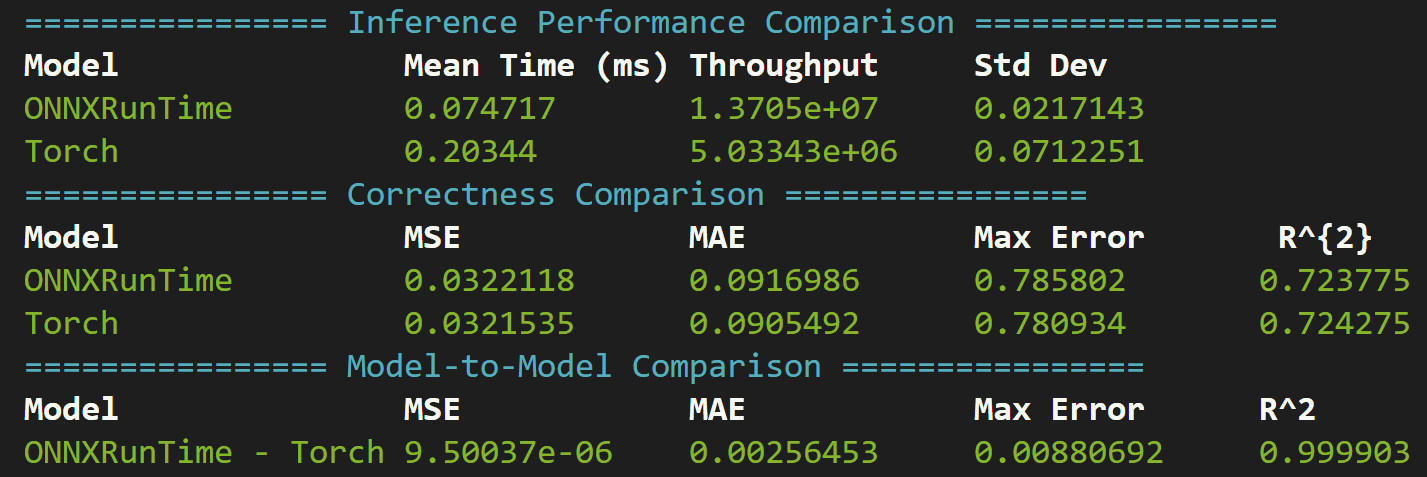
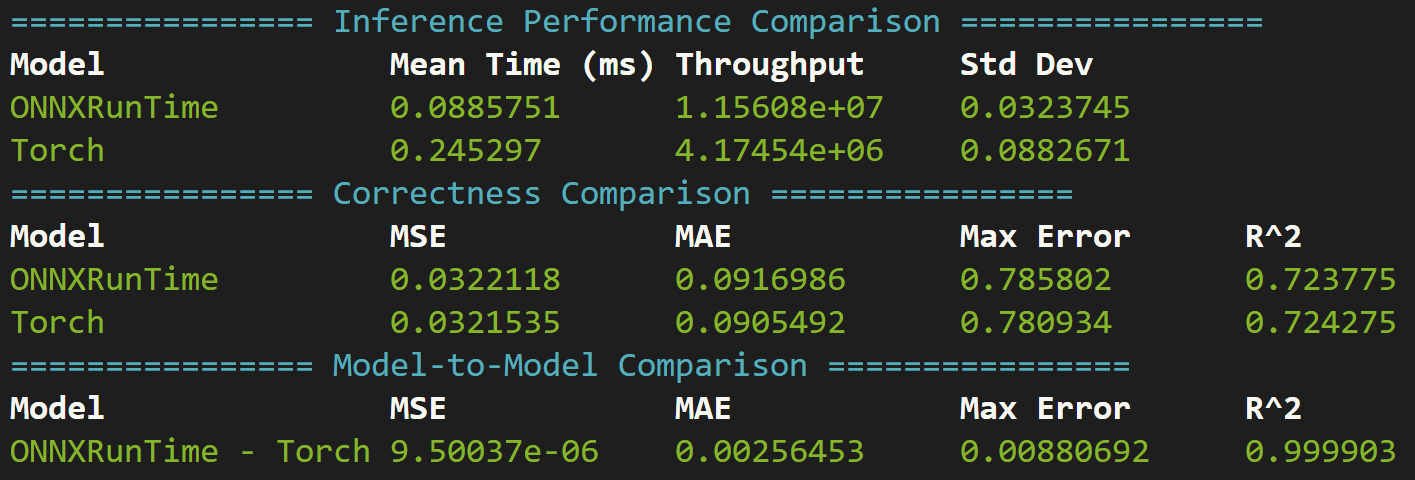
Fix small output inconsistency

diff --git a/cpp/include/comparator.h b/cpp/include/comparator.h
@@ -93,7 +93,7 @@ class comparator
             std::cout << terminal_colors::GREEN << std::left << std::setw(20) << model1.name() << std::setw(15) << results1.mean_time << std::setw(15) << results1.throughput << std::setw(15) << results1.stddev << "\n" << terminal_colors::RESET;
             std::cout << terminal_colors::GREEN << std::left << std::setw(20) << model2.name() << std::setw(15) << results2.mean_time << std::setw(15) << results2.throughput << std::setw(15) << results2.stddev << "\n" << terminal_colors::RESET;
             std::cout << terminal_colors::CYAN << "================ Correctness Comparison ================\n" << terminal_colors::RESET;
-            std::cout << terminal_colors::BOLD << terminal_colors::WHITE << std::left << std::setw(20) << "Model " << std::setw(15) << "MSE" << std::setw(15) << "MAE" << std::setw(15) << "Max Error"<< std::setw(15) <<" R^{2}"<< "\n"<< terminal_colors::RESET;
+            std::cout << terminal_colors::BOLD << terminal_colors::WHITE << std::left << std::setw(20) << "Model " << std::setw(15) << "MSE" << std::setw(15) << "MAE" << std::setw(15) << "Max Error"<< std::setw(15) <<"R^2"<< "\n"<< terminal_colors::RESET;
             std::cout << terminal_colors::GREEN << std::left << std::setw(20) << model1.name() << std::setw(15) << results1.mse << std::setw(15) << results1.mae << std::setw(15) << results1.max_error<< std::setw(15) << results1.r2<< "\n" << terminal_colors::RESET;
             std::cout<< terminal_colors::GREEN << std::left<< std::setw(20)<< model2.name()<< std::setw(15)<< results2.mse<< std::setw(15)<< results2.mae<< std::setw(15)<< results2.max_error<< std::setw(15)<< results2.r2<< "\n" << terminal_colors::RESET;
             std::cout << terminal_colors::CYAN << "================ Model-to-Model Comparison ================\n" << terminal_colors::RESET;